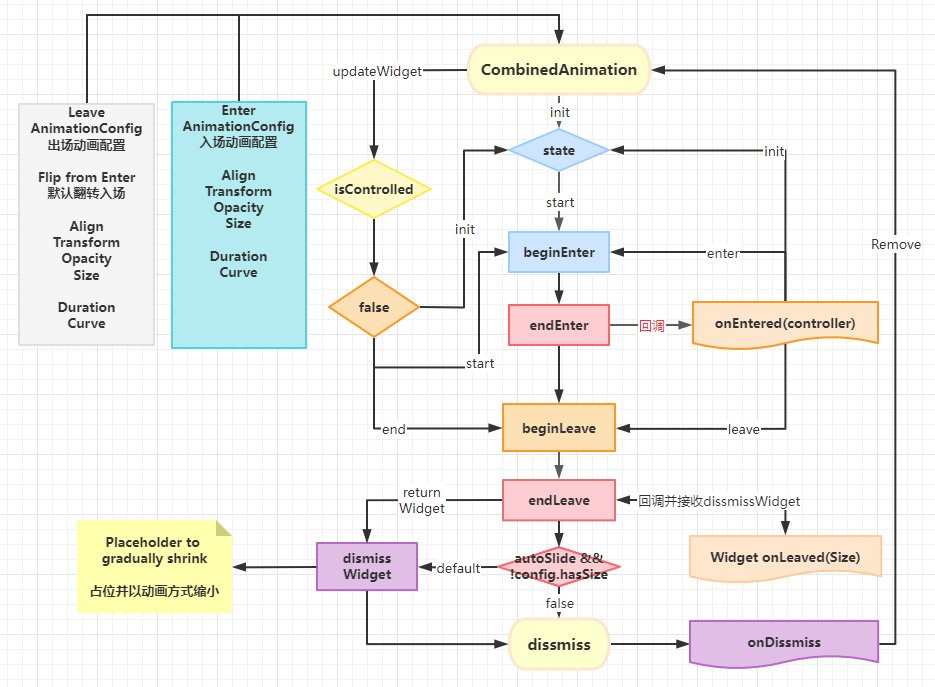
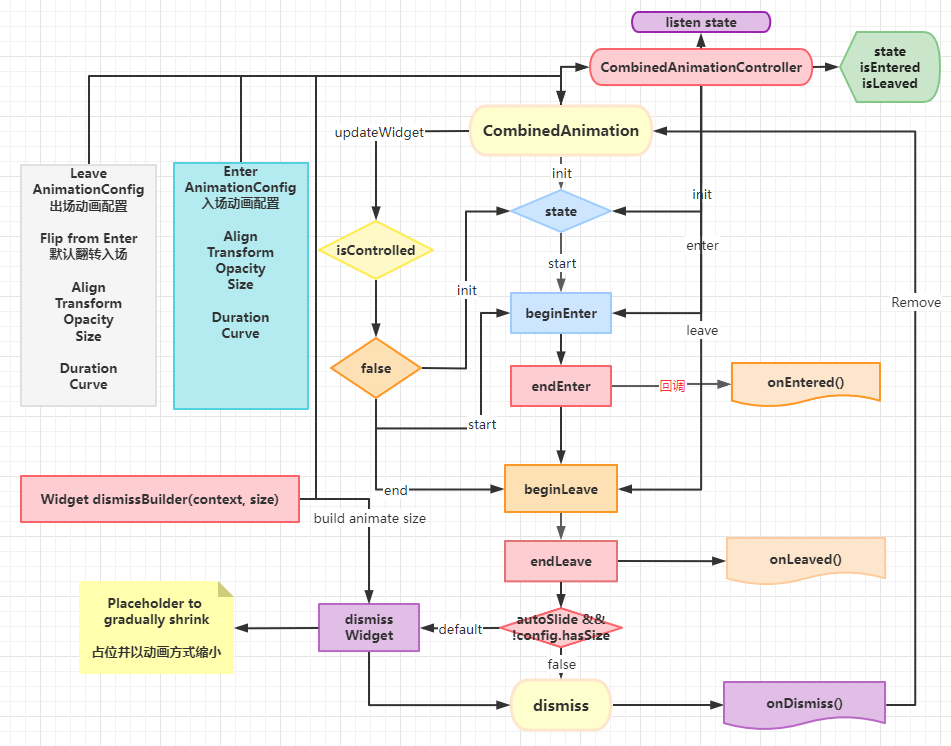
0.3.0

diff --git a/lib/src/combined.dart b/lib/src/combined.dart
@@ -35,8 +35,8 @@ class CombinedAnimation extends StatefulWidget {
     this.onInit,
     this.onEntered,
     this.onLeaved,
-    this.onDissmiss,
-    this.leaveBuilder,
+    this.onDismiss,
+    this.dismissBuilder,
     this.autoSlide = true,
     this.isControlled = false,
   })  : leaveConfig = leaveConfig ?? ~config,
@@ -60,7 +60,7 @@ class CombinedAnimation extends StatefulWidget {
   final CombinedAnimationController? controller;
 
   /// Callback to build a size transation to dismiss
-  final Widget? Function(Size?)? leaveBuilder;
+  final Widget? Function(Size?)? dismissBuilder;
 
   /// Callback when state inited
   final VoidCallback? onInit;
@@ -72,7 +72,7 @@ class CombinedAnimation extends StatefulWidget {
   final VoidCallback? onLeaved;
 
   /// Callback when size is Zero
-  final VoidCallback? onDissmiss;
+  final VoidCallback? onDismiss;
 
   /// The child will be animate
   final Widget child;
@@ -235,7 +235,7 @@ class _CombinedAnimationState extends State<CombinedAnimation>
       WidgetsBinding.instance.scheduleFrameCallback((timeStamp) {
         if (size == null) {
           state = AnimationState.dismiss;
-          widget.onDissmiss?.call();
+          widget.onDismiss?.call();
           widget.controller?._stateChanged();
         } else {
           size = null;
@@ -244,7 +244,7 @@ class _CombinedAnimationState extends State<CombinedAnimation>
             milliseconds: widget.dismissDuration.inMilliseconds + 16,
           )).then((value) {
             state = AnimationState.dismiss;
-            widget.onDissmiss?.call();
+            widget.onDismiss?.call();
             widget.controller?._stateChanged();
           });
         }
@@ -290,9 +290,9 @@ class _CombinedAnimationState extends State<CombinedAnimation>
   Widget build(BuildContext context) {
     if (state.index >= AnimationState.endLeave.index &&
         widget.autoSlide &&
-        (widget.leaveBuilder != null ||
+        (widget.dismissBuilder != null ||
             !(widget.config.hasSize || widget.leaveConfig.hasSize))) {
-      return widget.leaveBuilder?.call(size) ??
+      return widget.dismissBuilder?.call(size) ??
           AnimatedSize(
             duration: widget.dismissDuration,
             curve: widget.dismissCurve,

diff --git a/example/lib/main.dart b/example/lib/main.dart
@@ -179,7 +179,7 @@ class _AnimateItemState extends State<AnimateItem> {
                   isDissmissing = true;
                 });
               },
-              onDissmiss: widget.onDismiss,
+              onDismiss: widget.onDismiss,
               config: widget.animate,
               child: widget.child,
             ),

diff --git a/README.md b/README.md
@@ -18,7 +18,7 @@ A combined animation widget, contains alignment, opacity, transform, size for en
 - ✅ enter animation config.
 - ✅ leave animation config.
 
-- ✅ dissmiss size animation
+- ✅ dismiss size animation
 
 ## Preview
 
@@ -37,17 +37,18 @@ CombinedAnimation(
     state: willRemove?
         ? AnimationType.end
         : AnimationType.start,
-    onAttachController: (controller) {
-        // controller.leave()
-    },
+    controller: CombinedAnimationController(),
     onEntered: () {
         
     },
-    onLeaved: (size) {
-        // you can return a size box with size amination to diy dissmiss animation
-        // or will generate a default one
+    onLeaved: () {
+        
     },
-    onDissmiss:(){
+    dismissBuilder: (context,size){
+        // you can return a size box with size amination to diy dismiss animation
+        // or will generate a default one
+    }
+    onDismiss:(){
         // if you dont remove it
         // you can call controller.enter to show it again
         setState(() {

diff --git a/CHANGELOG.md b/CHANGELOG.md
@@ -1,6 +1,10 @@
+## 0.3.0
+* change leaveBuilder to dismissBuilder
+* fix dissmiss to dismiss
+
 ## 0.2.0
 * Add Controller argument
-* Add leaveBuilder to build a dissmiss Widget
+* Add leaveBuilder to build a dismiss Widget
 * Add onInit callback
 * change onEntered remove controller argument
 * change onLeaved remove size argument
